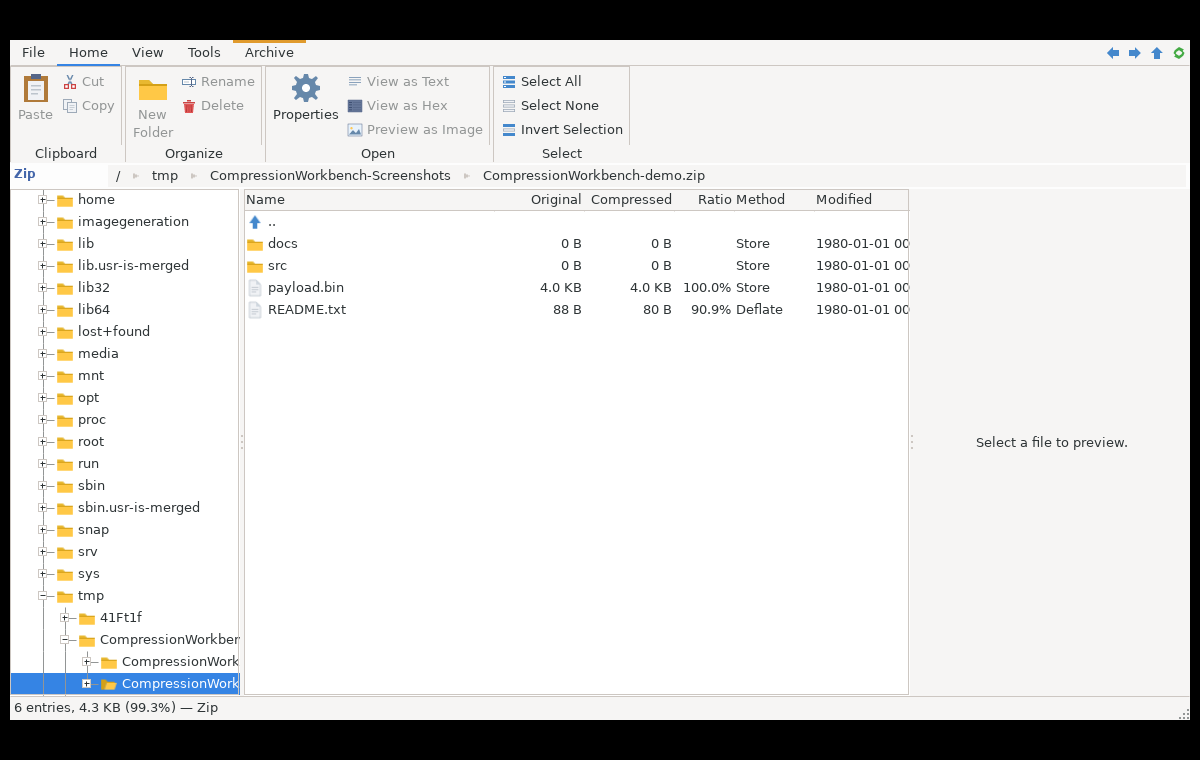
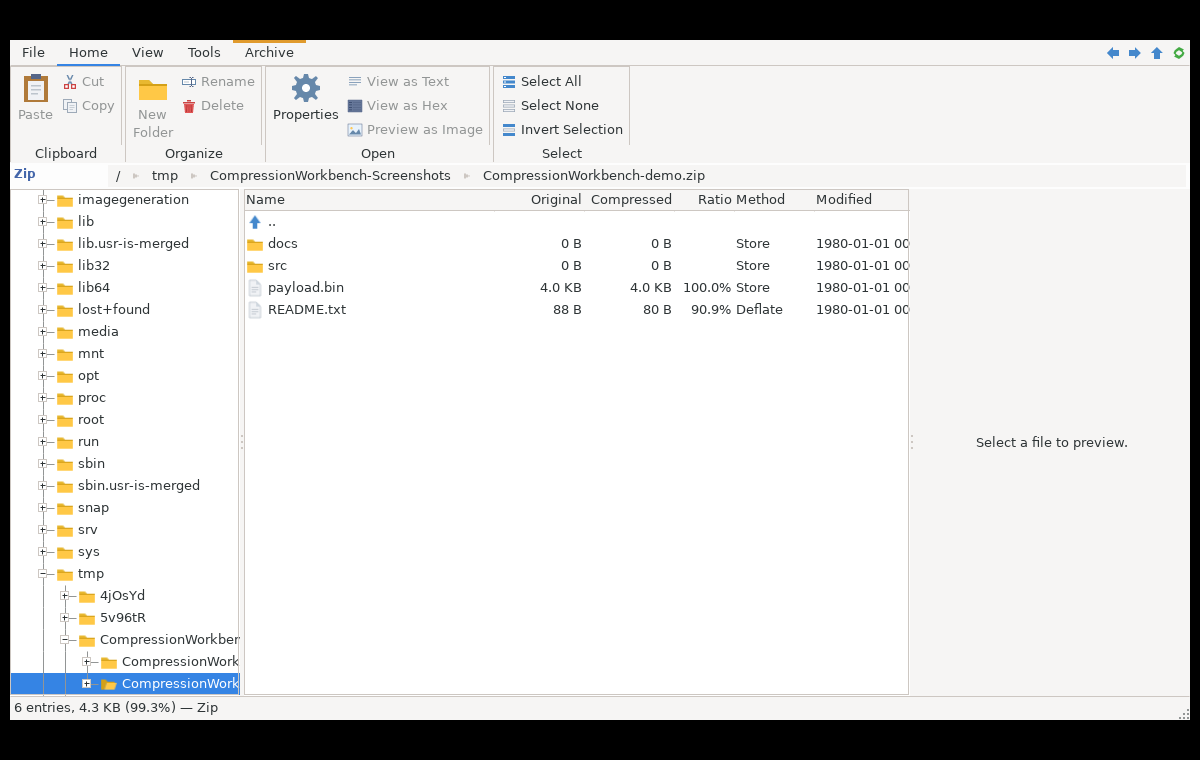
Shell: judge open images by content, offer Add only where the format takes files (#434)
* # the shell offered to add files to a partitioned .img through the FAT writer

Opening an image already detected it by content, but Add, drop-to-add and the maintenance target
went back to the extension. A .img holding a partition table therefore opened as a partitioned disk
while Add treated it as a FAT volume, writing FAT structures over the partition table. The shell now
keeps the format Open detected and offers Add only where that format takes new files; a file
selected on disk is judged by its content, cached per path, size and time. The mount window detects
by content, and creating an archive from the command line uses the create-time extension rule.

* * refresh the application screenshot

---------

diff --git a/Compression.NativeUI/ViewModels/MainViewModel.cs b/Compression.NativeUI/ViewModels/MainViewModel.cs
@@ -836,11 +836,13 @@ internal sealed class MainViewModel : ViewModelBase {
     if (SelectedEntries.Count == 1) {
       var e = SelectedEntries[0];
       if (!e.IsDirectory && !e.IsParentEntry) {
-        // OS-browser entries hold the absolute path; in-archive entries hold
-        // the in-archive name. Either way the extension drives detection.
+        // A file on disk is judged by its content (cached, since this runs on every requery); an
+        // entry inside an archive has no bytes at hand, so its name decides.
         var probeName = IsBrowsingOsFolder ? e.Path : e.Name;
         if (!string.IsNullOrEmpty(probeName)) {
-          var f = FormatDetector.DetectByExtension(probeName);
+          var f = IsBrowsingOsFolder && File.Exists(e.Path)
+            ? FormatDetector.DetectCached(e.Path)
+            : FormatDetector.DetectByExtension(probeName);
           if (f != FormatDetector.Format.Unknown && !FormatDetector.IsStreamFormat(f)) {
             // OS-browser candidate must actually exist on disk.
             if (!IsBrowsingOsFolder || File.Exists(e.Path)) {
@@ -1062,9 +1064,26 @@ internal sealed class MainViewModel : ViewModelBase {
   private bool CanAddFiles
     => !string.IsNullOrEmpty(ArchivePath)
        && Compression.Lib.FormatRegistration.IsReady
-       && FormatDetector.DetectByExtension(ArchivePath) is var f
-       && f != FormatDetector.Format.Unknown
-       && !FormatDetector.IsStreamFormat(f);
+       && _openFormat != FormatDetector.Format.Unknown
+       && !FormatDetector.IsStreamFormat(_openFormat)
+       && OpenArchiveTakesAdditions();
+
+  /// <summary>
+  /// Whether the open archive's format can take new files at all. ZIP / 7z / RAR don't implement
+  /// IArchiveCreatable themselves — their create path is a switch inside ArchiveOperations — so the
+  /// CanCreate / CanModify capability flags count as evidence too.
+  /// </summary>
+  private bool OpenArchiveTakesAdditions() {
+    var ops = Compression.Registry.FormatRegistry.GetArchiveOps(_openFormat.ToString());
+    var caps = (ops as Compression.Registry.IFormatDescriptor)?.Capabilities ?? 0;
+    return ops is Compression.Registry.IArchiveCreatable or Compression.Registry.IArchiveModifiable
+           || caps.HasFlag(Compression.Registry.FormatCapabilities.CanCreate)
+           || caps.HasFlag(Compression.Registry.FormatCapabilities.CanModify);
+  }
+
+  // What the open archive is, as Open detected it from its content: a .img holding a partition
+  // table is a partitioned disk, not the FAT image its extension suggests.
+  private FormatDetector.Format _openFormat;
 
   public void Open(string path) => Open(path, fromNestedDescent: false);
 
@@ -1094,6 +1113,7 @@ internal sealed class MainViewModel : ViewModelBase {
       }
 
       ArchivePath = path;
+      _openFormat = format;
       Format = format.ToString();
       // Leave folder browsing before setting the folder: that setter rebuilds the breadcrumbs, and
       // while a host folder is still being browsed the trail ends at the host path.
@@ -1999,22 +2019,13 @@ internal sealed class MainViewModel : ViewModelBase {
   internal (bool Allowed, string? Message) EvaluateDropAgainstCurrentArchive(string[] files) {
     if (!HasArchive) return (true, "Drop archive to open");
 
-    var format = FormatDetector.DetectByExtension(ArchivePath);
+    var format = _openFormat;
     if (format == FormatDetector.Format.Unknown) return (true, "Drop to add files to archive");
 
     Compression.Lib.FormatRegistration.EnsureInitialized();
     var ops = Compression.Registry.FormatRegistry.GetArchiveOps(format.ToString());
-    // Block the drop only when the descriptor is genuinely read-only. ZIP / 7z /
-    // RAR don't implement IArchiveCreatable themselves — their create path is a
-    // hardcoded switch inside ArchiveOperations — so we also accept the
-    // CanCreate / CanModify capability flags as evidence of write capability.
-    var caps = (ops as Compression.Registry.IFormatDescriptor)?.Capabilities ?? 0;
-    if (ops is not Compression.Registry.IArchiveCreatable &&
-        ops is not Compression.Registry.IArchiveModifiable &&
-        !caps.HasFlag(Compression.Registry.FormatCapabilities.CanCreate) &&
-        !caps.HasFlag(Compression.Registry.FormatCapabilities.CanModify)) {
+    if (!OpenArchiveTakesAdditions())
       return (false, "This archive format is read-only (can't add files)");
-    }
 
     // Per-file + cumulative-size check via optional constraints.
     if (ops is Compression.Registry.IArchiveWriteConstraints constraints) {
@@ -2045,7 +2056,7 @@ internal sealed class MainViewModel : ViewModelBase {
   }
 
   private void AddFilesToArchiveImpl(string[] paths) {
-    var format = FormatDetector.DetectByExtension(ArchivePath);
+    var format = _openFormat;
     if (format == FormatDetector.Format.Unknown || FormatDetector.IsStreamFormat(format)) {
       MessageBox.Show("Cannot add files to this archive format.", "Add Files",
         MessageBoxButtons.OK, MessageBoxIcon.Warning);

diff --git a/Compression.Tests/NativeUI/ShellContentDetectionTests.cs b/Compression.Tests/NativeUI/ShellContentDetectionTests.cs
@@ -1,0 +1,90 @@
+using System;
+using System.IO;
+using Compression.Core.DiskImage;
+using Compression.Lib;
+using Compression.NativeUI;
+using Compression.NativeUI.ViewModels;
+using Compression.Registry;
+using NUnit.Framework;
+
+namespace Compression.Tests.NativeUI;
+
+/// <summary>
+/// The shell judges an open image by its content, not its extension: a <c>.img</c> holding a
+/// partition table is a partitioned disk, and what the shell offers to do with it follows from that.
+/// </summary>
+[TestFixture]
+[NonParallelizable]
+public sealed class ShellContentDetectionTests {
+  private string _root = null!;
+  private MainViewModel _model = null!;
+
+  [SetUp]
+  public void SetUp() {
+    this._root = Path.Combine(Path.GetTempPath(), "cwb-shelldetect-" + Guid.NewGuid().ToString("N"));
+    Directory.CreateDirectory(this._root);
+    UserSettings.PathOverride = Path.Combine(this._root, "settings.json");
+    FormatRegistration.EnsureInitialized();
+    this._model = new MainViewModel();
+  }
+
+  [TearDown]
+  public void TearDown() {
+    UserSettings.PathOverride = null;
+    try { Directory.Delete(this._root, recursive: true); } catch { }
+  }
+
+  private static byte[] Fat() {
+    var writer = new FileSystem.Fat.FatWriter();
+    writer.AddFile("HELLO.TXT", "hello"u8.ToArray());
+    return writer.Build();
+  }
+
+  /// <summary>A whole-disk image: an MBR with one FAT partition starting at 1 MiB.</summary>
+  private static byte[] PartitionedDisk() {
+    const long mib = 1024 * 1024;
+    var fat = Fat();
+    var length = (fat.Length + 511) / 512 * 512;
+    var disk = new byte[mib + length + mib];
+    using (var stream = new MemoryStream(disk, writable: true))
+      new PartitionEditor(stream).AddPartition(mib, length, PartitionType.Fat16Lba, "data");
+    fat.CopyTo(disk, (int)mib);
+    return disk;
+  }
+
+  private string Write(string name, byte[] data) {
+    var path = Path.Combine(this._root, name);
+    File.WriteAllBytes(path, data);
+    return path;
+  }
+
+  [Test]
+  public void GivenAnImgHoldingAPartitionTable_WhenOpened_ThenItIsAPartitionedDiskAndNothingIsOfferedToBeAddedToIt() {
+    this._model.Open(this.Write("disk.img", PartitionedDisk()));
+
+    Assert.Multiple(() => {
+      Assert.That(this._model.Format, Is.EqualTo("PartitionedDisk"), "the extension says FAT; the bytes say whole disk");
+      Assert.That(this._model.AddFilesCommand.CanExecute(null), Is.False,
+        "adding through the FAT writer would write a FAT structure over the partition table");
+    });
+  }
+
+  [Test]
+  public void GivenAnImgHoldingABareFatVolume_WhenOpened_ThenFilesCanBeAddedToIt() {
+    this._model.Open(this.Write("floppy.img", Fat()));
+
+    Assert.Multiple(() => {
+      Assert.That(this._model.Format, Is.EqualTo("Fat"));
+      Assert.That(this._model.AddFilesCommand.CanExecute(null), Is.True);
+    });
+  }
+
+  [Test]
+  public void GivenAPartitionedDisk_WhenFilesAreDroppedOnIt_ThenTheDropIsRefused() {
+    this._model.Open(this.Write("disk.img", PartitionedDisk()));
+
+    var (allowed, _) = this._model.EvaluateDropAgainstCurrentArchive([Path.Combine(this._root, "any.txt")]);
+
+    Assert.That(allowed, Is.False);
+  }
+}

diff --git a/Compression.NativeUI/Program.cs b/Compression.NativeUI/Program.cs
@@ -109,7 +109,7 @@ internal static class Program {
     var directory = Path.GetDirectoryName(inputPath) ?? ".";
     var archivePath = Path.Combine(directory, baseName + extension);
 
-    var format = FormatDetector.DetectByExtension(archivePath);
+    var format = FormatDetector.DetectByExtensionForCreate(archivePath);
     if (format == F.Unknown) {
       MessageBox.Show($"Unknown archive format for {extension}", "Create Archive", MessageBoxButtons.OK, MessageBoxIcon.Error);
       return 1;

diff --git a/Compression.NativeUI/Views/MountWindow.cs b/Compression.NativeUI/Views/MountWindow.cs
@@ -127,7 +127,7 @@ internal sealed class MountWindow : Form {
 
     try {
       FormatRegistration.EnsureInitialized();
-      var detected = FormatDetector.DetectByExtension(path);
+      var detected = FormatDetector.Detect(path);
       if (detected == FormatDetector.Format.Unknown) {
         this.ShowProbeFailure("No registered format could be detected for this file.");
         return;
